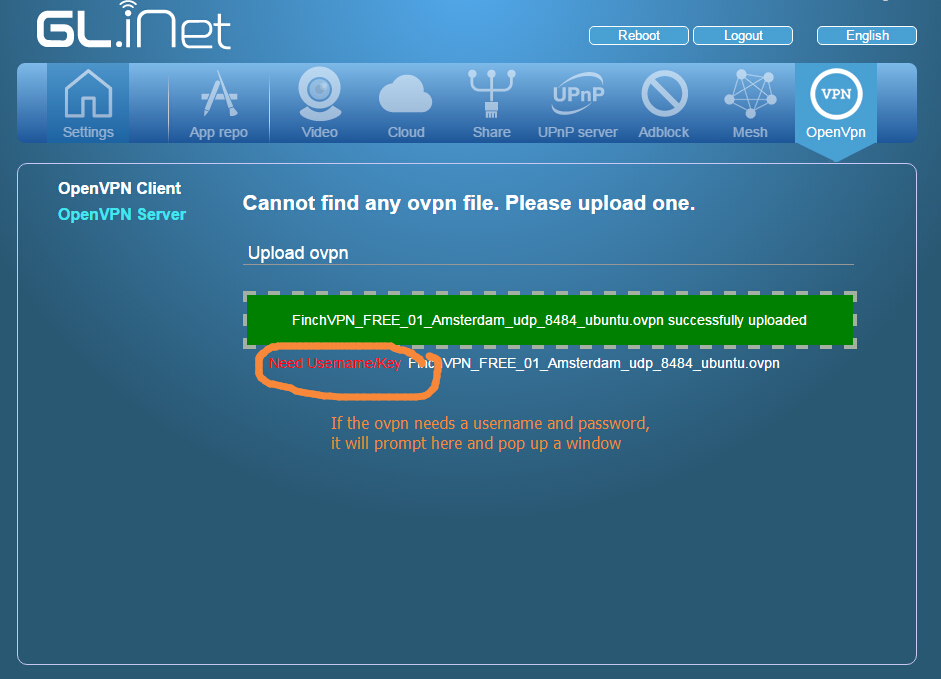
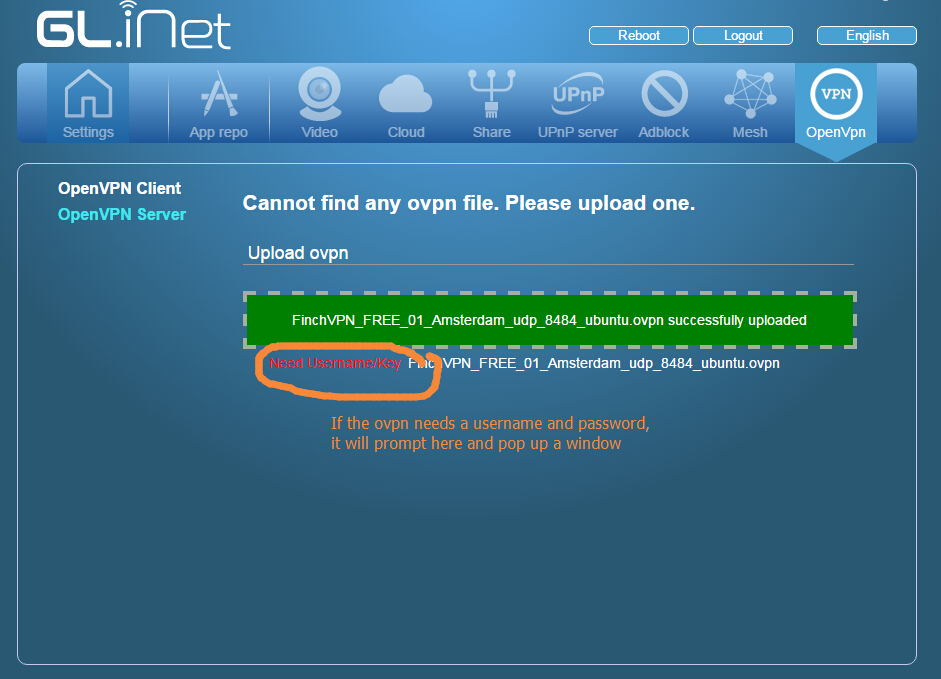
reduce picgure size

diff --git a/docs/mini/internet.md b/docs/mini/internet.md
@@ -4,7 +4,7 @@ The main UI shows the Internet status, mainly the IP address and protol in the s
 
 You can click the `Internet part` in the Settings bar, you will have tools to change Internet settings.
 
-![Connections](src/internet_status1.png)
+![Connections](src/internet_status1.jpg)
 
 You can now click "Setting" button or the Internet Icon to pop up Internet settings page.
 
@@ -16,7 +16,7 @@ Your main router or ISP should be able to provide such option.
 
 DHCP is the default and most common method to connect to the Internet. You just need to choose `DHCP` and click `Submit`.
 
-![Connections](src/dhcp1.png)
+![Connections](src/dhcp1.jpg)
 
 ## Static
 
@@ -26,7 +26,7 @@ DHCP is the default and most common method to connect to the Internet. You just 
 
 The current settings will be automactically filled in the filed. Change it according to your needs, then click `Submit`.
 
-![Connections](src/static.png)
+![Connections](src/static.jpg)
 
 ## PPPoE
 
@@ -34,7 +34,7 @@ The current settings will be automactically filled in the filed. Change it accor
 
 Fill your `username` and `password` then click `Submit`.
 
-![Connections](src/pppoe.png)
+![Connections](src/pppoe.jpg)
 
 ## Repeater (WISP)
 
@@ -52,11 +52,11 @@ In the following diagram, your main router has an IP 192.168.1.1. Suppose its ne
 
 So all your devices connected to the mini router will be protected by the firewall.
 
-![Connections](src/wisp1.png)
+![Connections](src/wisp1.jpg)
 
 First Click `Repeater` tab in `Internet Settings`, the router will search for the available SSIDs around automatically. Then choose the one your want to repeat and type your password. The `Mode` should be `WISP`, then click `Submit`.
 
-![Connections](src/wisp.png)
+![Connections](src/wisp.jpg)
 
 ## Repeater Bridge (WDS)
 
@@ -66,7 +66,7 @@ In WDS mode, the mini router only boost your main router's signal area, not crea
 
 **OpenVPN client function of the mini router will not work in bridge mode**
 
-![Connections](src/wds.png)
+![Connections](src/wds.jpg)
 
 To use WDS repeater, **ensure your main router support WDS**, then choose `WDS` from mode list. You will have an option to input a static IP, which will be used to access this mini router.
 
@@ -74,7 +74,7 @@ If you know the subnet of your main router, for example in this case it is `192.
 
 If you are not sure, just keep the IP address blank so that it will get a IP address from your main router automatically. But you need to find out this IP in your main router's admin UI if you want to access this UI again.
 
-![Connections](src/wds1.png)
+![Connections](src/wds1.jpg)
 
 ## Repeater Bridge (relayd)
 
@@ -90,7 +90,7 @@ Using the mini router, you can connect to the Internet using 3G or 4G modems. Cl
 
 The basic mode we only have limted data. We recommend you to use the advanced method by clicking the `Advanced Setup >>>`.
 
-![Connections](src/3g_1.png)
+![Connections](src/3g_1.jpg)
 
 After you plug in your modem, you will see the device in Modem Device list. There maybe several devices and you need to try different devices. Most devices are ttyUSB2. In my case it is ttyUSB1.
 
@@ -104,7 +104,7 @@ Now click `Submit`.
 
 **If you used the wrong ttyUSB device, you need to try another one. Some modems needs you to unplug it first and plug in again**
 
-![Connections](src/3g_2.png)
+![Connections](src/3g_2.jpg)
 
 ###Compatible 3G, 4G LTE modem List
 
@@ -134,11 +134,11 @@ Modems can be Regular USB or Host-less versions. If it is host-less, it will wor
 
 You can also tether your smartphone's data to the router. Some new 3G/4G modems work as this mode as well. Plug your phone to the mini router's USB port.
 
-![Connections](src/tethering1.png)
+![Connections](src/tethering1.jpg)
 
 Then click `Tethering` tab. Your smartphone will appear as a network devices, with names: `eth1 eth2 usb0` etc. depends on the model.
 
-![Connections](src/tethering.png)
+![Connections](src/tethering.jpg)
 
 ## Clone MAC
 
@@ -146,7 +146,7 @@ Clone MAC is used especially in hotels, hotspot etc when the server checks your 
 
 Clieck the `Clone Mac` button and you will have the following interface.
 
-![Connections](src/macclone.png)
+![Connections](src/macclone.jpg)
 
 Your current mac address will be displayed in `WAN MAC Address`. You can click `Clone` to copy your device's mac address or click `Restore` to restore the factory set mac.
 
@@ -162,6 +162,6 @@ Click `DNS` button you will be able to input custom dns. You can input max two d
 
 A separate article will be written about DNS.
 
-![Connections](src/dns.png)
+![Connections](src/dns.jpg)
 
 # Discussions

diff --git a/docs/mini/index.md b/docs/mini/index.md
@@ -10,16 +10,16 @@ You need to power the mini router up using a USB 5V/1A power adapter. The power 
 
 Please wait around 1 mintues until the router start up.
 
-![Connections](src/connections1.png)
+![Connections](src/connections1.jpg)
 
 You can connect the mini router's WAN port to your main router or modem using an Ethernet cable.
 
-![Connections](src/connections.png)
+![Connections](src/connections.jpg)
 
 Now connect your PC to the LAN port or connect via wifi.
 
-![Connections](src/connections3.png)
-![Connections](src/connections4.png)
+![Connections](src/connections3.jpg)
+![Connections](src/connections4.jpg)
 
 The SSID of the mini router should be printed on the bottom of the router. It should be one of the following format, according to your device models:
 ```
@@ -37,17 +37,17 @@ Now open a browser (we recommend Chrome, firefox) and visit [http://192.168.8.1]
 
 You will have the welcome page. First you need to select your language. We now only have `Chinese` and `English`.
 
-![Connections](src/welcome.png)
+![Connections](src/welcome.jpg)
 
 Then you need to select your region. You can use your mouse to click on the map. You can also select from the select box.
 
-![Connections](src/region.png)
+![Connections](src/region.jpg)
 
 Third, you should set your own password for this admin Interface. There is no default password. Before sure to input a password with length longer than 8.
 
 **This password is for the admin UI and the embedded Linux system. It doesn't change your wifi password.**
 
-![Connections](src/password.png)
+![Connections](src/password.jpg)
 
 Now let's click `Finish`. You will be logged into the admin UI.
 
@@ -57,11 +57,11 @@ The interface is quite intuitive and straightforward.
 
 On the top is the icons for applications. On the left side is the settings. The middle is the main display area.
 
-![Connections](src/main_ui.png)
+![Connections](src/main_ui.jpg)
 
 You can click the `Internet` icon to display the current method of connecting to the Internet. The default method is DHCP, which requires you using a cable to connect to the Internet.
 
-![Connections](src/internet_status.png)
+![Connections](src/internet_status.jpg)
 
 ## Buttons and LEDs
 
@@ -69,7 +69,7 @@ You can use the Reset button to turn wifi on/off.
 
 The default function of the switch is to hide (right side) or show (left side) the SSID.
 
-![Connections](src/buttons.png)
+![Connections](src/buttons.jpg)
 
 The left LED is used for power indication. It should be always on.
 
@@ -77,7 +77,7 @@ The middle LED doesn't have functions by default. You can configure it according
 
 The right LED indicate the current status of WiFi. If WiFi is on it should light up. If you have data transmission, it should flash.
 
-![Connections](src/leds.png)
+![Connections](src/leds.jpg)
 
 ## Change your ssid and key
 

diff --git a/docs/mini/wifi.md b/docs/mini/wifi.md
@@ -4,7 +4,7 @@
 
 You can turn on or off the radio from the main UI by the switch. It takes effect immediately.
 
-![Lan IP](src/wifi_onoff.png)
+![Lan IP](src/wifi_onoff.jpg)
 
 ## Wireless status
 
@@ -16,7 +16,7 @@ One router may have one of more Radio devices and one device can have multiple V
 
 In this example, the channel is `1` and tx power is `20`. We have one AP interface with SSID `GL-MT300A-030`.
 
-![Lan IP](src/wifi_status.png)
+![Lan IP](src/wifi_status.jpg)
 
 ## Wireless Settings
 
@@ -38,7 +38,7 @@ You can change the
 
 **We suggest you change your password immediately when you use the mini router.**
 
-![Lan IP](src/wifi_setting.png)
+![Lan IP](src/wifi_setting.jpg)
 
 ## Multiple Interfaces (SSID)
 
@@ -48,13 +48,13 @@ However the current UI can display after you create the interface.
 
 If you have multiple SSIDs, the main UI will display the status. You can turn on off any one or both. The status page will display the information of these interfaces as well.
 
-![Lan IP](src/wifi_multi_ssid1.png)
+![Lan IP](src/wifi_multi_ssid1.jpg)
 
 When you want to change the settings, you will have multiple TABs.
 
 **Multiple AP Interfaces share the same radio configuration (mode and channel). You cannot set different values for each Interface**
 
-![Lan IP](src/wifi_multi_ssid.png)
+![Lan IP](src/wifi_multi_ssid.jpg)
 
 ## LED indication
 
@@ -64,7 +64,7 @@ If you have multiple SSIDs, you can configure another LED to indicate the status
 
 Go to Advanced settings (Luci) -> System -> LEDs, add one settings. The following sample is for GL-MT300A. Other mini routers may have different LEDs names.
 
-![Lan IP](src/wifi_leds.png)
+![Lan IP](src/wifi_leds.jpg)
 
 ## WDS AP Interface
 
@@ -72,11 +72,11 @@ To enable WDS support on the virtual interfaces, you need to go to advanced sett
 
 Then click `Network->wifi`, choose the interface and click edit.
 
-![Lan IP](src/wifi_advanced.png)
+![Lan IP](src/wifi_advanced.jpg)
 
 You need to choose `Access Point (WDS)` other than the default `Access Point` mode.
 
 
-![Lan IP](src/wifi_advanced1.png)
+![Lan IP](src/wifi_advanced1.jpg)
 
 # Discussions

diff --git a/docs/mini/firmware.md b/docs/mini/firmware.md
@@ -8,13 +8,13 @@ The firmware is under continuous development, to include new features, fix bugs 
 3. You can enable "auto update" option to let the router upgrade automatically if it detects a new version. This option is disabled by default.
 4. You will have a `Download` button if there is a new version. Click it to start download.
 
-![Lan IP](src/firmware.png)
+![Lan IP](src/firmware.jpg)
 
 ## Download online
 
 Click the `Download` button to start downloading. It will takes some seconds depending on the network.
 
-![Lan IP](src/firmware1.png)
+![Lan IP](src/firmware1.jpg)
 
 After download, the device will verify if the firmware is usable. If verified, you will have a `upgrade` button to start upgrade the firmware.
 
@@ -22,7 +22,7 @@ After download, the device will verify if the firmware is usable. If verified, y
 
 **If you kept settings and encount problems after install, please reset the device by pressing and hold the `RESET` button for more than 8 seconds.**
 
-![Lan IP](src/firmware2.png)
+![Lan IP](src/firmware2.jpg)
 
 ## Upload your firmware
 
@@ -35,7 +35,7 @@ You may compile your own firmware, you can also upload to the router.
 
 Warning: Don't rely on the verification status from the UI. You are responsible to upload a compatible firmware.
 
-![Lan IP](src/firmware3.png)
+![Lan IP](src/firmware3.jpg)
 
 ## Start upgrading
 
@@ -45,7 +45,7 @@ After you download/upload a new firmware and it is verified, you an upgrade now.
 2. **Don't turn off the power.** If you do so, your device maybe bricked.
 3. You may need to reconnect to the device after upgrade. For example, your ssid and key maybe changed back to default one.
 
-![Lan IP](src/firmware4.png)
+![Lan IP](src/firmware4.jpg)
 
 ## Revert to factory status
 
@@ -56,7 +56,7 @@ If you have problems in settings (for example repeater) or firmware upgrading, y
 1. Clieck the "Revert to Factory Default" button.
 2. Read the warnings and click "Revert" now. It takes 1 or 2 mintures.
 
-![Lan IP](src/firmware5.png)
+![Lan IP](src/firmware5.jpg)
 
 ### Using the Reset button to revert
 

diff --git a/docs/mini/repeater_manager.md b/docs/mini/repeater_manager.md
@@ -25,7 +25,7 @@ There are two modes for repeater.
 
 Click "Submit" and wait a while to let the router connected as repeater.
 
-![wan status](src/repeater.png)
+![wan status](src/repeater.jpg)
 
 ## Control the repeater
 
@@ -37,13 +37,13 @@ Here is two actions you can do to control your repeater connections.
 * Disconnect: You can disconnect current connected station. When you click, you will be asked if you want to disable the "auto scan & reconnect" function. You can choose "OK" (means YES) or "Cancel" (means NO). If you choose NO, the auconnect feature may reactive this connection which you just disconnected.
 
 
-![wan status](src/repeater_connected.png)
+![wan status](src/repeater_connected.jpg)
 
 ## Manage saved stations
 
 Click the "Saved stations" button and you can manage your saved stations.
 
-![wan status](src/repeater_manager.png)
+![wan status](src/repeater_manager.jpg)
 
 The current connection will be **bold**.
 

diff --git a/docs/mini/repeater.md b/docs/mini/repeater.md
@@ -49,10 +49,10 @@ Excute putty, then input IP `192.168.8.1`, Port `22` and choose connection type 
 
 You will be shown a black window. Type username `root` and then your password. You are in.
 
-![Putty SSH](src/putty_ssh1.png)
+![Putty SSH](src/putty_ssh1.jpg)
 
 Then you need to execute the above command one by one.
 
-![Putty SSH](src/putty_ssh2.png)
+![Putty SSH](src/putty_ssh2.jpg)
 
 # Discussions

diff --git a/docs/mini/lan.md b/docs/mini/lan.md
@@ -9,6 +9,6 @@ You can find the IP address of your main router from its own admin UI or just ch
 
 In the following example, the WAN IP of the mini router is `192.168.9.243` (assume the netmask is `/24`), and we are ok to keep `192.168.8.1` as the LAN IP.
 
-![Lan IP](src/lan_ip.png)
+![Lan IP](src/lan_ip.jpg)
 
 # Discussions
